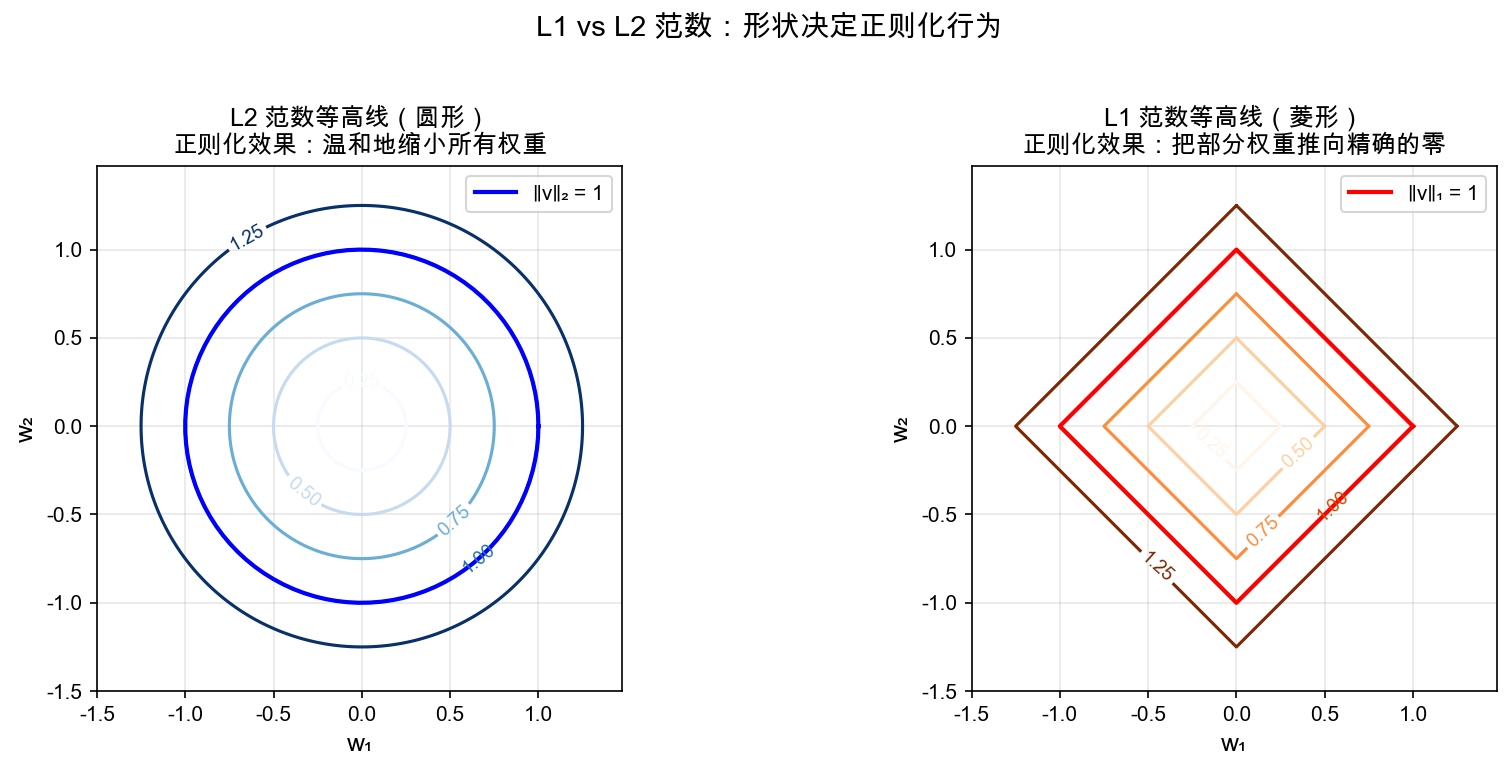
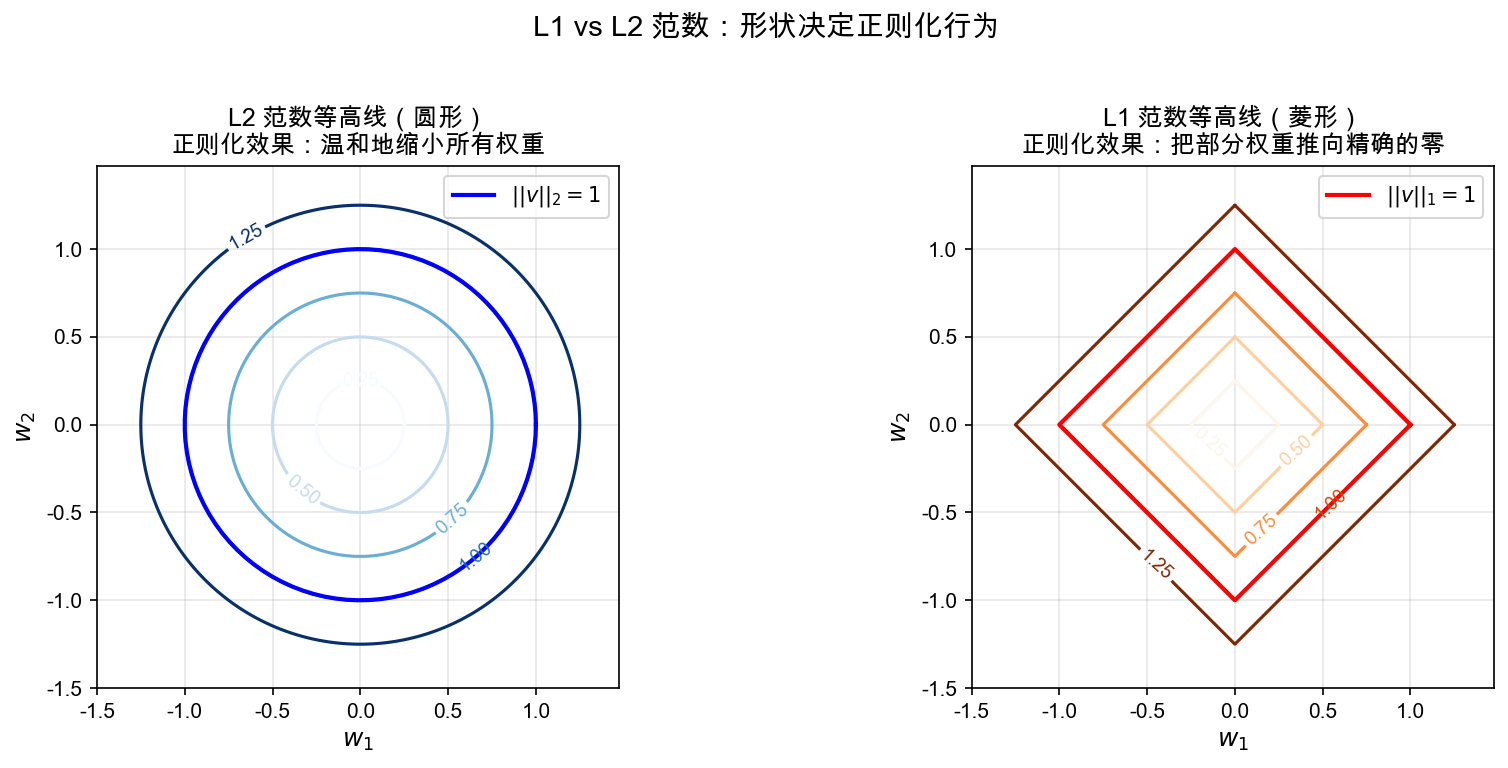
🐛 修复 Unicode 下标渲染问题：使用 matplotlib mathtext 替代 Unicode 字符
- vectors_2d.py: v₁₂₃ → {1,2,3}$, ‖v‖ → ||v||
- l1_l2_norm_contour.py: w₁₂ → {1,2}$, ‖v‖₁₂ → $||v||_{1,2}$
- 重新生成所有 35 张可视化图片
- 抽样验证：所有文字标签渲染正常，无方框/乱码

diff --git a/chapter01-linear-algebra/scripts/l1_l2_norm_contour.py b/chapter01-linear-algebra/scripts/l1_l2_norm_contour.py
@@ -27,10 +27,10 @@ ax = axes[0]
 cs = ax.contour(X, Y, L2, levels=[0.25, 0.5, 0.75, 1.0, 1.25], cmap='Blues')
 ax.clabel(cs, inline=True, fontsize=9, fmt='%.2f')
 ax.plot(np.cos(np.linspace(0, 2*np.pi, 100)), np.sin(np.linspace(0, 2*np.pi, 100)),
-        'b-', lw=2, label='‖v‖₂ = 1')
+        'b-', lw=2, label=r'$||v||_2 = 1$')
 ax.set_title('L2 范数等高线（圆形）\n正则化效果：温和地缩小所有权重', fontsize=12, fontweight='bold')
-ax.set_xlabel('w₁', fontsize=12)
-ax.set_ylabel('w₂', fontsize=12)
+ax.set_xlabel(r'$w_1$', fontsize=12)
+ax.set_ylabel(r'$w_2$', fontsize=12)
 ax.set_aspect('equal')
 ax.grid(True, alpha=0.3)
 ax.legend(fontsize=10)
@@ -42,10 +42,10 @@ ax.clabel(cs, inline=True, fontsize=9, fmt='%.2f')
 # 画 L1 单位球（菱形）
 diamond_x = [1, 0, -1, 0, 1]
 diamond_y = [0, 1, 0, -1, 0]
-ax.plot(diamond_x, diamond_y, 'r-', lw=2, label='‖v‖₁ = 1')
+ax.plot(diamond_x, diamond_y, 'r-', lw=2, label=r'$||v||_1 = 1$')
 ax.set_title('L1 范数等高线（菱形）\n正则化效果：把部分权重推向精确的零', fontsize=12, fontweight='bold')
-ax.set_xlabel('w₁', fontsize=12)
-ax.set_ylabel('w₂', fontsize=12)
+ax.set_xlabel(r'$w_1$', fontsize=12)
+ax.set_ylabel(r'$w_2$', fontsize=12)
 ax.set_aspect('equal')
 ax.grid(True, alpha=0.3)
 ax.legend(fontsize=10)

diff --git a/chapter01-linear-algebra/scripts/vectors_2d.py b/chapter01-linear-algebra/scripts/vectors_2d.py
@@ -6,15 +6,16 @@ import matplotlib.pyplot as plt
 import matplotlib
 matplotlib.rcParams['font.sans-serif'] = ['PingFang SC', 'Heiti SC', 'STHeiti', 'Arial Unicode MS']
 matplotlib.rcParams['axes.unicode_minus'] = False
+matplotlib.rcParams['text.usetex'] = False  # 使用 mathtext 而非 full LaTeX
 import numpy as np
 
 fig, ax = plt.subplots(1, 1, figsize=(8, 6))
 
 # 画几个向量
 vectors = {
-    'v₁ = [2, 3]': np.array([2, 3]),
-    'v₂ = [-1, 2]': np.array([-1, 2]),
-    'v₃ = [3, -1]': np.array([3, -1]),
+    r'$v_1$ = [2, 3]': np.array([2, 3]),
+    r'$v_2$ = [-1, 2]': np.array([-1, 2]),
+    r'$v_3$ = [3, -1]': np.array([3, -1]),
 }
 
 colors = ['#2196F3', '#FF5722', '#4CAF50']
@@ -26,7 +27,7 @@ for (label, v), color in zip(vectors.items(), colors):
     # 标注向量长度
     norm = np.linalg.norm(v)
     mid = v / 2
-    ax.text(mid[0] - 0.3, mid[1] - 0.3, f'‖v‖={norm:.2f}', fontsize=9, color=color,
+    ax.text(mid[0] - 0.3, mid[1] - 0.3, f'$||v||$={norm:.2f}', fontsize=9, color=color,
             bbox=dict(boxstyle='round,pad=0.2', facecolor='white', edgecolor=color, alpha=0.8))
 
 # 坐标轴
